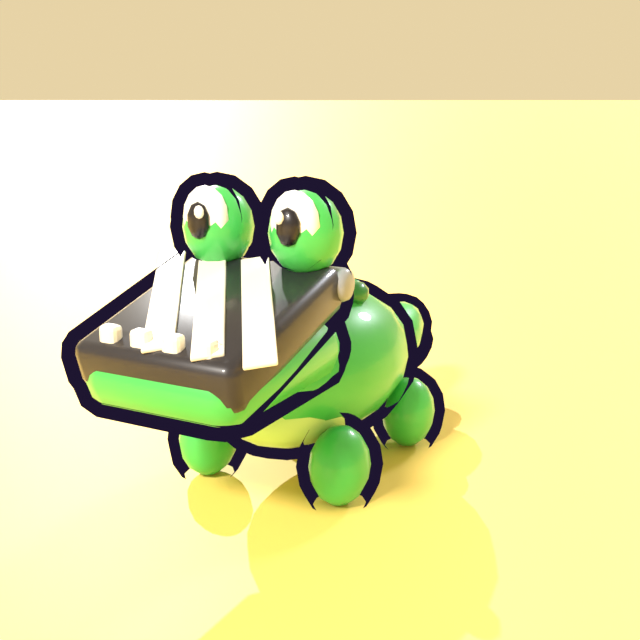
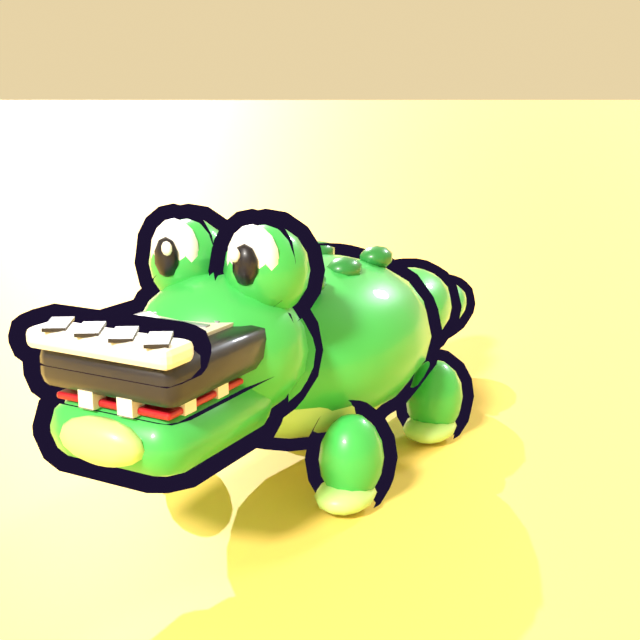
Mascots: gentler tail lift in the air; new previews
Claude-Session: https://claude.ai/code/session_017UGXkp7d6LbbBRz6rg4v8u

Changed region(s): [[0.0, 0.25, 0.8438, 1.0], [0.7188, 0.9688, 0.75, 1.0]]

diff --git a/art/preview/mascot_moves.py b/art/preview/mascot_moves.py
@@ -63,7 +63,7 @@ def main():
 
     # Frame the line-up with room above for the jumps.
     pose(0, STUD * 2.5)
-    mascots.stage(everything, "unused.png", width, height, 1.05, 10, render=False)
+    mascots.stage(everything, "unused.png", width, height, 0.97, 10, render=False)
     scene = bpy.context.scene
 
     count = len(frames[placed[0][0]])
@@ -78,7 +78,7 @@ def main():
 
     from PIL import Image
 
-    images = [Image.open(p).convert("RGB").quantize(colors=200, method=Image.Quantize.MEDIANCUT) for p in stills]
+    images = [Image.open(p).convert("RGB").quantize(colors=128, method=Image.Quantize.MEDIANCUT) for p in stills]
     images[0].save(out_path, save_all=True, append_images=images[1:], duration=int(1000 * every / 30), loop=0, optimize=True)
     print("Wrote", out_path)
 
